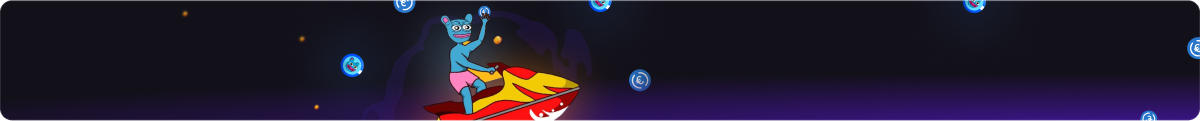
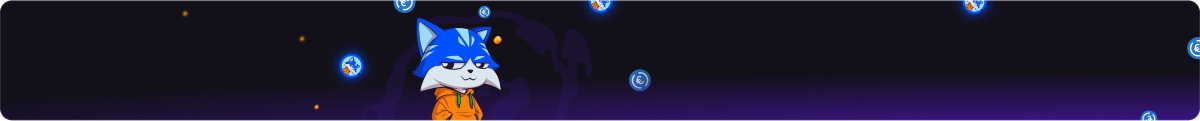
updated assets to alpha-s3

diff --git a/pages/tournaments/index.js b/pages/tournaments/index.js
@@ -257,6 +257,11 @@ const Tournaments = () => {
                                   <App.Button primary2 onClick={handleExchangeAddress(tournament, '0x532f27101965dd16442e59d40670faf5ebb142e4')}>Trade $BRETT</App.Button>
                                   <App.Button primary2 onClick={handleExchangeAddress(tournament, '0x60a3e35cc302bfa44cb288bc5a4f316fdb1adb42')}>Trade $EURC</App.Button>
                                 </App.Flex>
+                              ) : tournament.alias == 'alpha-trader-s3' ? (
+                                <App.Flex direction={['row', 'column']} gap={8}>
+                                  <App.Button primary2 onClick={handleExchangeAddress(tournament, '0x60a3e35cc302bfa44cb288bc5a4f316fdb1adb42')}>Trade $EURC</App.Button>
+                                  <App.Button primary2 onClick={handleExchangeAddress(tournament, '0xac1bd2486aaf3b5c0fc3fd868558b082a531b2b4')}>Trade $TOSHI</App.Button>
+                                </App.Flex>
                               ) : (
                                 <App.Button primary2 onClick={handleExchange(tournament)}>Trade now</App.Button>
                               )
@@ -359,6 +364,11 @@ const Tournaments = () => {
                               <App.Flex direction={['row', 'column']} gap={8}>
                                 <App.Button primary2 onClick={handleExchangeAddress(tournament, '0x532f27101965dd16442e59d40670faf5ebb142e4')}>Trade $BRETT</App.Button>
                                 <App.Button primary2 onClick={handleExchangeAddress(tournament, '0x60a3e35cc302bfa44cb288bc5a4f316fdb1adb42')}>Trade $EURC</App.Button>
+                              </App.Flex>
+                            ) : tournament.alias == 'alpha-trader-s3' ? (
+                              <App.Flex direction={['row', 'column']} gap={8}>
+                                <App.Button primary2 onClick={handleExchangeAddress(tournament, '0x60a3e35cc302bfa44cb288bc5a4f316fdb1adb42')}>Trade $EURC</App.Button>
+                                <App.Button primary2 onClick={handleExchangeAddress(tournament, '0xac1bd2486aaf3b5c0fc3fd868558b082a531b2b4')}>Trade $TOSHI</App.Button>
                               </App.Flex>
                             ) : (
                               <App.Button secondary2 outlined onClick={handleExchange(tournament)}>{`Trade ${tournament.currency}`}</App.Button>

diff --git a/store/gem.js b/store/gem.js
@@ -233,8 +233,10 @@ export const gemSlice = createSlice({
         value.name = value?.title
         // value.slogan = (`${temp[0]} ${temp[1]} ${value.alias == 'alpha-trader-s1' ? 'series' : ''}`).toUpperCase()
         // value.specialCurrency = value.alias == 'alpha-trader-s1' ? '$TOSHI & $PONCHO' : `$${value.currency}`
-        value.slogan = (`${temp[0]} ${temp[1]} ${value.alias == 'alpha-trader-s2' ? 'series 2' : ''}`).toUpperCase()
-        value.specialCurrency = value.alias == 'alpha-trader-s2' ? '$BRETT & $EURC' : `$${value.currency}`
+        // value.slogan = (`${temp[0]} ${temp[1]} ${value.alias == 'alpha-trader-s2' ? 'series 2' : ''}`).toUpperCase()
+        // value.specialCurrency = value.alias == 'alpha-trader-s2' ? '$BRETT & $EURC' : `$${value.currency}`
+        value.slogan = (`${temp[0]} ${temp[1]} ${value.alias == 'alpha-trader-s3' ? 'series 3' : ''}`).toUpperCase()
+        value.specialCurrency = value.alias == 'alpha-trader-s3' ? '$EURC & $TOSHI' : `$${value.currency}`
 
         switch (key) {
           case 'brett':
@@ -291,8 +293,10 @@ export const gemSlice = createSlice({
       const name = payload?.title
       // const slogan = (`${temp[0]} ${temp[1]} ${payload.alias == 'alpha-trader-s1' ? 'series' : ''}`).toUpperCase()
       // const specialCurrency = payload.alias == 'alpha-trader-s1' ? 'TOSHI & PONCHO' : `$${currency}`
-      const slogan = (`${temp[0]} ${temp[1]} ${payload.alias == 'alpha-trader-s1' ? 'series 2' : ''}`).toUpperCase()
-      const specialCurrency = payload.alias == 'alpha-trader-s2' ? '$BRETT & $EURC' : `$${currency}`
+      // const slogan = (`${temp[0]} ${temp[1]} ${payload.alias == 'alpha-trader-s1' ? 'series 2' : ''}`).toUpperCase()
+      // const specialCurrency = payload.alias == 'alpha-trader-s2' ? '$BRETT & $EURC' : `$${currency}`
+      const slogan = (`${temp[0]} ${temp[1]} ${payload.alias == 'alpha-trader-s3' ? 'series 3' : ''}`).toUpperCase()
+      const specialCurrency = payload.alias == 'alpha-trader-s3' ? '$EURC & $TOSHI' : `$${currency}`
 
       state.currentTournament = {
         ...payload,

diff --git a/components/Exchange/Sidebar/SidebarBanner/index.js b/components/Exchange/Sidebar/SidebarBanner/index.js
@@ -119,8 +119,9 @@ const SidebarBanner = () => {
               <App.Flex column gap={4}>
                 {/* <App.Text size={20} weight={600} height={1}>Trade {current.alias == 'alpha-trader-s1' ? current.specialCurrency : `$${current.currency}`}</App.Text> */}
                 {/* <App.Text size={14} weight={400} height={1} color="#FFFFFF99">Activate streaks with daily min. trade vol. of $100!</App.Text> */}
-                <App.Text size={20} weight={600} height={1}>Trade {current.alias == 'alpha-trader-s2' ? current.specialCurrency : `$${current.currency}`}</App.Text>
-                <App.Text size={14} weight={400} height={1} color="#FFFFFF99">Activate streaks with daily min. trade vol. of $200!</App.Text>
+                {/* <App.Text size={20} weight={600} height={1}>Trade {current.alias == 'alpha-trader-s2' ? current.specialCurrency : `$${current.currency}`}</App.Text> */}
+                <App.Text size={20} weight={600} height={1}>Trade {current.alias == 'alpha-trader-s3' ? current.specialCurrency : `$${current.currency}`}</App.Text>
+                <App.Text size={14} weight={400} height={1} color="#FFFFFF99">Activate streaks with daily min. trade vol. of $300!</App.Text>
               </App.Flex>
             </App.Flex>
 

diff --git a/components/Tournament/TournamentBanner/index.js b/components/Tournament/TournamentBanner/index.js
@@ -101,7 +101,7 @@ const TournamentBanner = ({ tournament }) => {
           </App.Flex>
         </App.Flex>
 
-        <App.Text size={14} weight={600} height={1} color="#FFFFFF99">Activate streaks with daily min. trade vol. of $200!</App.Text>
+        <App.Text size={14} weight={600} height={1} color="#FFFFFF99">Activate streaks with daily min. trade vol. of $300!</App.Text>
       </App.Flex>
     </App.Flex>
   )
